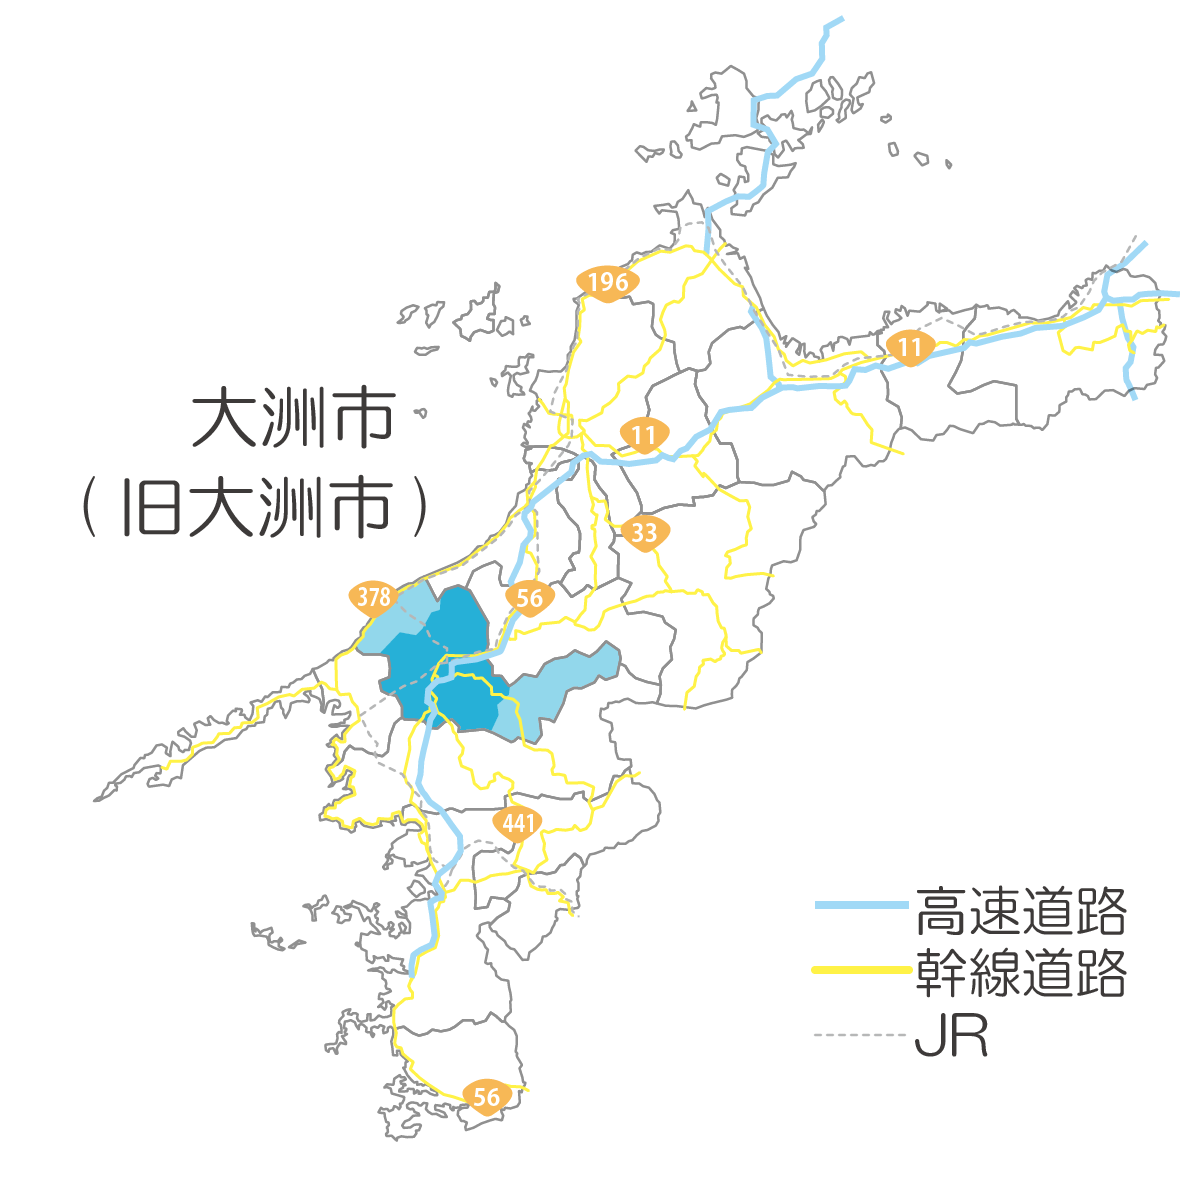
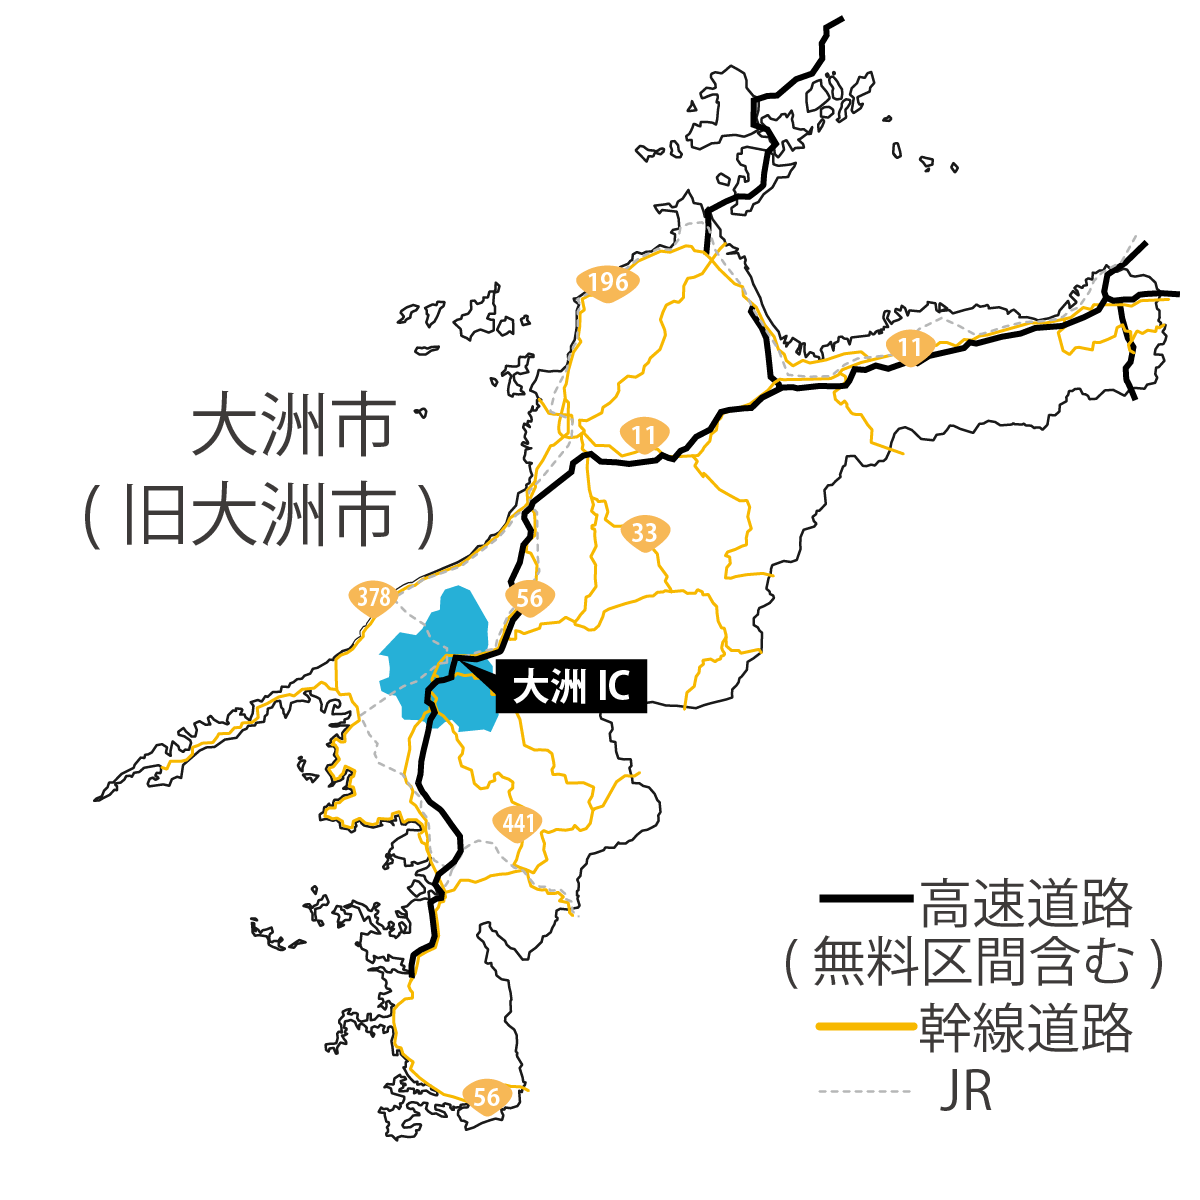
大洲のコンビニプリント情報追加、マップを更新

diff --git a/volunteer-new/ozu.md b/volunteer-new/ozu.md
@@ -5,7 +5,7 @@ category:
 tag:
     - 大洲市
 date: 2018-07-29 12:15:14 +0900
-last_modified_at: 2018-07-29 12:15:22 +0900
+last_modified_at: 2018-08-11 08:03:07 +0900
 header:
     overlay_image: /assets/images/maps/ozu-map-only.png
     overlay_filter: 0.5    
@@ -13,19 +13,13 @@ header:
 
 # 大洲市にボランティアに行きたい！
 
-## 大洲市の状況
+## 状況
 
-- 対象者
-    - 愛媛県内在住の方
-- 
-- 特に必要な人材
-    - 軽トラを持ち込みできる方
-    - 学生さんのボランティアを募集します
-        - JR伊予大洲駅からをご利用される方は、大洲市総合体育館へ移動していただくと、シャトルバスを運行させていますので、利用ください。
+![最新の募集状況](/assets/images/volunteer_headcount/大洲市_volunteer_headcount_diff_recent.png)
 
 ## 場所・移動
 
-![吉田町ルート](/assets/images/maps/ozu-map-and-routes.png)
+![大洲ルート](/assets/images/maps/ozu-map-and-routes.png)
 
 <iframe src="https://www.google.com/maps/embed?pb=!1m14!1m8!1m3!1d3337.5840587034895!2d132.5563633!3d33.2249991!3m2!1i1024!2i768!4f13.1!3m3!1m2!1s0x354f61d3d3bf78c3%3A0xf8c9d8da738f0b18!2z5a6H5ZKM5bO25biC57eP5ZCI56aP56WJ44K744Oz44K_44O8!5e0!3m2!1sja!2sjp!4v1532865920833" width="370" height="300" frameborder="0" style="border:0" allowfullscreen></iframe>
 
@@ -34,14 +28,78 @@ header:
 - 自家用車
     - JR松山駅より1時間30分程度
 - JR
+    - JR松山駅からJR伊予大洲駅まで
+    - 大洲市総合体育館から災害VCまでシャトルバスが運行しています。
+
+### マイカーで現地へ行く場合
+
+マイカーで現地に行く際には、**災害派遣車両証明書**を取得しておくと、高速道路を無料で通過することができます。（ETCをお使いの方は、**ETCカードを抜いておかない**と、ETC／一般レーンを通る際にETCが使われて有料になってしまうことがあるので要注意！！）
+登録の手続きが多少込み入っていますので、[別ページ](/volunteer_backup/)にて解説しています。
+
+## 募集状況
+
+大洲市は、ボランティア対象者は、愛媛県内在住の方のみとなっています。
+
+
+- 軽トラを持ち込みできる方
+- 学生さんのボランティアを募集します
+        - JR伊予大洲駅からをご利用される方は、大洲市総合体育館へ移動していただくと、シャトルバスを運行させていますので、利用ください。
+
     - 
-- ボランティアバス
+## 申し込み方法
+
+**8/11よりボランティアは事前予約が必要となりました。必ず事前に災害VCへご連絡ください** 
+連絡先は[こちら](##連絡先)まで。
+
+- 受付時間
+    - 9:00〜12:00
+- 活動時間
+    - 09:00〜17:00(VC帰着は16:00))
+
+### 個人の場合
+
+登録用紙を事前に印刷して内容を記入して持参してください。
+
+**コンビニプリントもできます**
+
+- セブンイレブン：NQ9A3BRU
+- セブンイレブン以外
+   - ユーザー番号：4NBPPWPQ65
+   - ファイル名：大洲ボランティア登録（個人・団体代表）
+   
+### 団体の場合
+
+登録用紙を事前に印刷し記入してください。
+
+- 団体代表登録用紙
+- 団体名簿
+  - コンビニプリント
+    - セブンイレブン：
+        - 団体代表者：NQ9A3BRU
+        - 団体名簿：RUUKK4EF
+    - セブンイレブン以外：
+        - ユーザー番号：4NBPPWPQ65
+        - ファイル名：大洲ボランティア登録（個人・団体代表）
+        - ファイル名：大洲ボランティア登録（団体名簿）
+
+## 現地の場所
+
+### 大洲社会福祉協議会（ボランティアセンター）
+
+<iframe src="https://www.google.com/maps/embed?pb=!1m18!1m12!1m3!1d6145.191111880789!2d132.5509496544539!3d33.51813067620329!2m3!1f0!2f0!3f0!3m2!1i1024!2i768!4f13.1!3m3!1m2!1s0x354f80815aad101f%3A0xaa53d8a7cbbb951f!2z44CSNzk1LTAwNjQg5oSb5aqb55yM5aSn5rSy5biC5p2x5aSn5rSy77yS77yX77yQ4oiS77yR!5e0!3m2!1sja!2sjp!4v1533884983961" width="350" height="350" frameborder="0" style="border:0" allowfullscreen></iframe>
+
+
 
 ## ボランティア受入先
 
 - [大洲市社会福祉協議会](http://www.ozushakyo.jp/index.php)
 - [大洲市災害ボランティアセンター](https://www.facebook.com/ozusvc)
-- (etc...)
+
 
 ## 連絡先
+大洲市社会福祉協議会災害ボランティアセンター
+
+住所：大洲市東大洲２７０−１（大洲市総合福祉センター）
+携帯:[080-5076-9426](080-5076-9426)
+TEL:[0893-23-0313](0893-23-0313)
 
